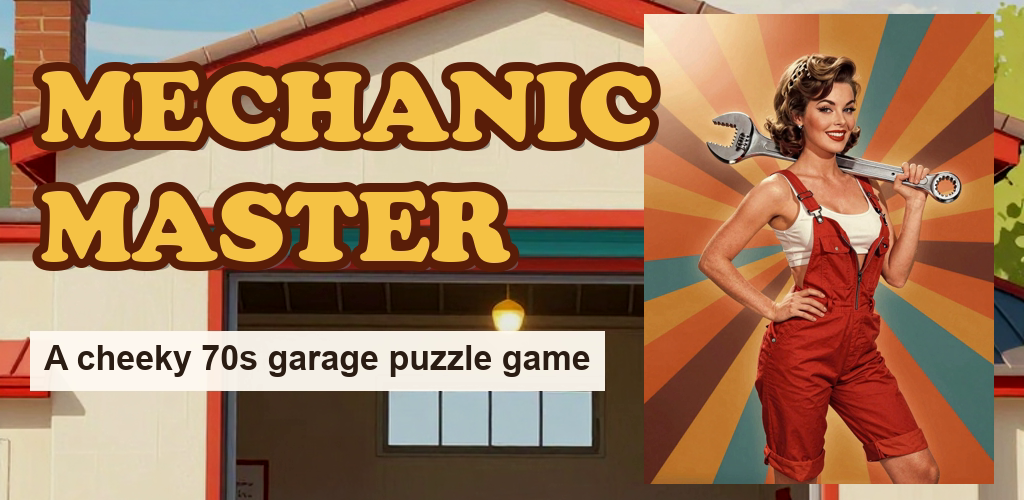
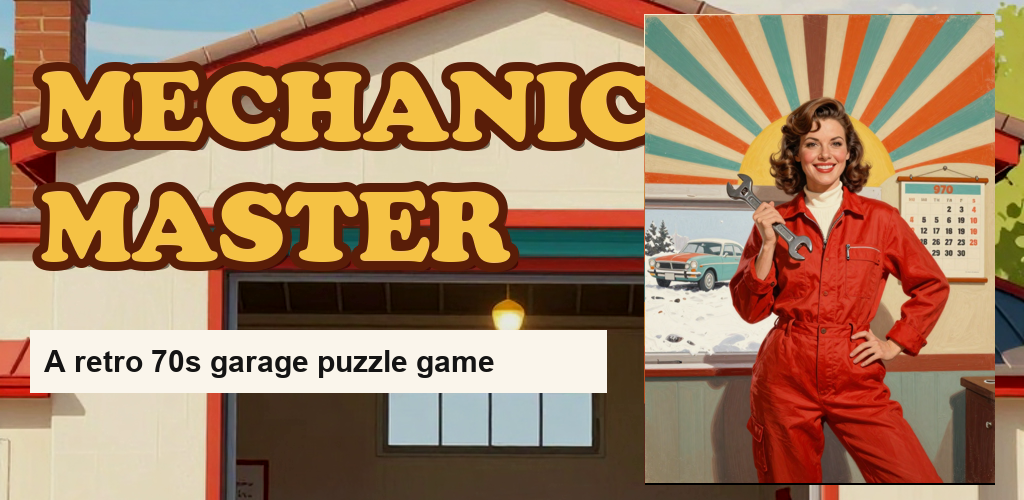
Retro wording and new feature picture

diff --git a/index.html b/index.html
@@ -4,7 +4,7 @@
 <meta charset="utf-8">
 <meta name="viewport" content="width=device-width, initial-scale=1">
 <title>Mechanic Master</title>
-<meta name="description" content="Mechanic Master: a cheeky 1970s garage puzzle game for Android and iPhone.">
+<meta name="description" content="Mechanic Master: a retro 1970s garage puzzle game for Android and iPhone.">
 <link rel="icon" href="icon.png">
 <style>
   :root { --cream: #fbf3dc; --brown: #3a1a0e; --gold: #f6c445; --red: #d63a32; --teal: #2f8f8a; }
@@ -23,9 +23,9 @@
 </head>
 <body>
 <main>
-  <img class="hero" src="feature.png" alt="Mechanic Master: a pin-up mechanic in red overalls holding a spanner, beside the game's logo">
+  <img class="hero" src="feature.png" alt="Mechanic Master: a mechanic in red overalls holding a spanner, beside the game's logo">
   <h1>Mechanic Master</h1>
-  <p class="tag">A cheeky 1970s garage puzzle game</p>
+  <p class="tag">A retro 1970s garage puzzle game</p>
   <p>It's 1976, the radio's playing funk and there's a queue outside your little garage. Every car that rolls onto your lift is a puzzle:</p>
   <ul>
     <li><strong>Sort</strong> brake pads, filters and spark plugs onto the right racks</li>
@@ -33,7 +33,7 @@
     <li><strong>Spin</strong> coloured nuts onto the matching bolts and <strong>fit</strong> every wheel</li>
     <li><strong>Drain</strong> the sump, <strong>fix</strong> windscreen chips and <strong>wire</strong> the fuse box</li>
   </ul>
-  <p>200 jobs, a cast of cheeky regulars with their own stories, garage upgrades to earn and a 1976 pin-up calendar to collect.</p>
+  <p>200 jobs, a cast of colourful regulars with their own stories, garage upgrades to earn and a 1976 mechanics' calendar to collect.</p>
   <div class="stores"><strong>Coming soon</strong> to Google Play and the App Store.</div>
   <h2 id="support">Support</h2>
   <p>Stuck on a job, found a bug, or have a question about a purchase? Email us at <a href="mailto:mechanicmasterlive@proton.me">mechanicmasterlive@proton.me</a> and we'll get back to you.</p>
